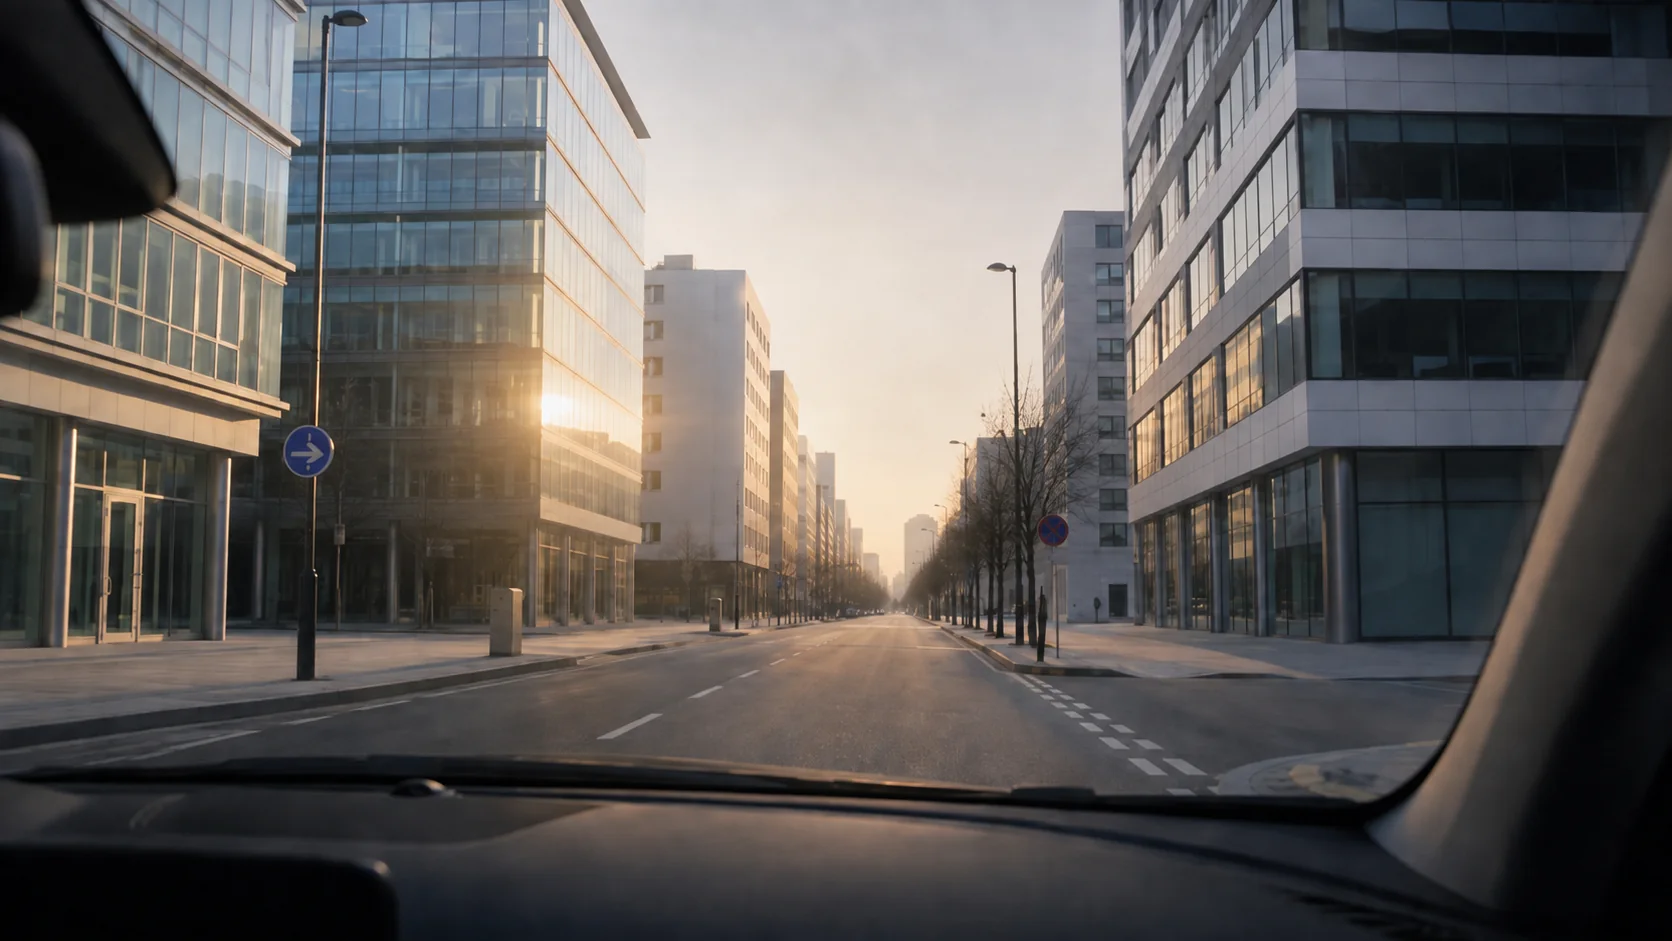
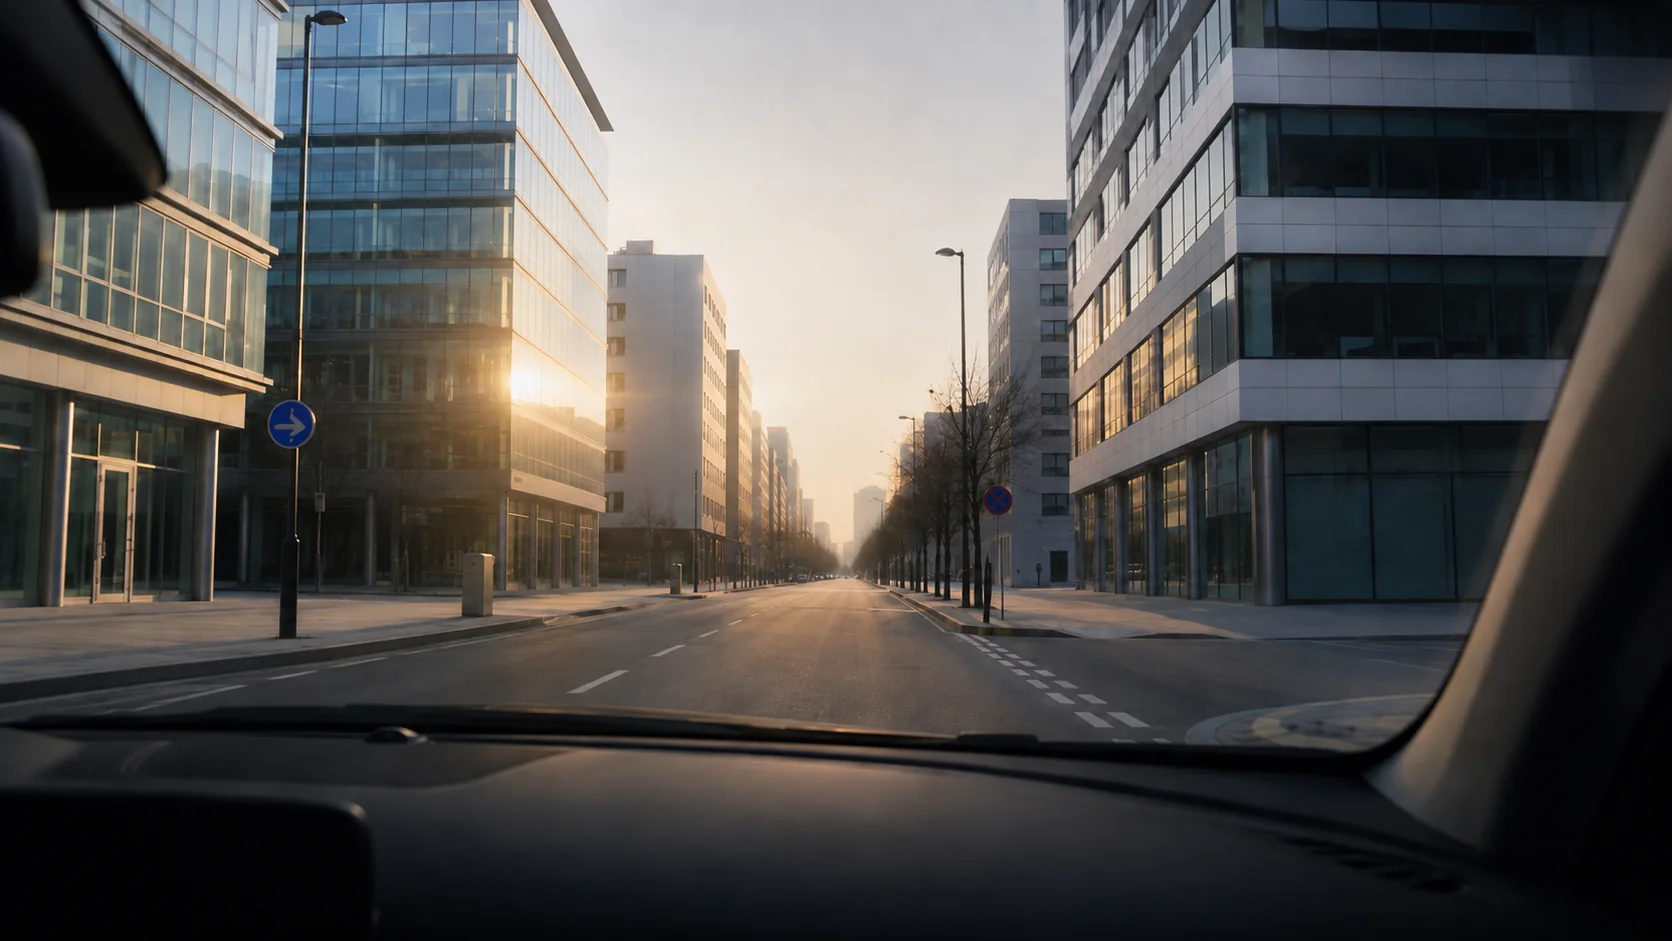
데스크탑 히어로 이미지 교체, 모바일은 기존 동작(워드마크 즉시 표시)으로 복구
Claude-Session: https://claude.ai/code/session_0138ZKp8DuMDLTPzZn6MWR4y

diff --git a/index.html b/index.html
@@ -1390,7 +1390,20 @@
     const FULL_TEXT = 'urbanscenttrack';
     const TYPE_INTERVAL_MS = 90;
     const START_TYPING_AFTER_MS = 700;
+    const isDesktop = window.matchMedia('(min-width:761px)').matches;
     let typingStarted = false;
+
+    function showInstantly(){
+      outroText.textContent = FULL_TEXT;
+      outro.classList.add('is-visible');
+    }
+
+    // 모바일: 기존과 동일하게 워드마크를 바로 표시 (타이핑 없음)
+    // 모션 최소화 설정을 쓰는 사용자도 애니메이션 없이 바로 표시
+    if(!isDesktop || window.matchMedia('(prefers-reduced-motion:reduce)').matches){
+      showInstantly();
+      return;
+    }
 
     function startTyping(){
       if(typingStarted) return;
@@ -1402,13 +1415,6 @@
         outroText.textContent = FULL_TEXT.slice(0, i);
         if(i >= FULL_TEXT.length) clearInterval(timer);  // 다 찍히면 멈춘 채로 유지
       }, TYPE_INTERVAL_MS);
-    }
-
-    // 모션 최소화 설정을 쓰는 사용자는 애니메이션 없이 바로 표시
-    if(window.matchMedia('(prefers-reduced-motion:reduce)').matches){
-      outroText.textContent = FULL_TEXT;
-      outro.classList.add('is-visible');
-      return;
     }
 
     setTimeout(startTyping, START_TYPING_AFTER_MS);
